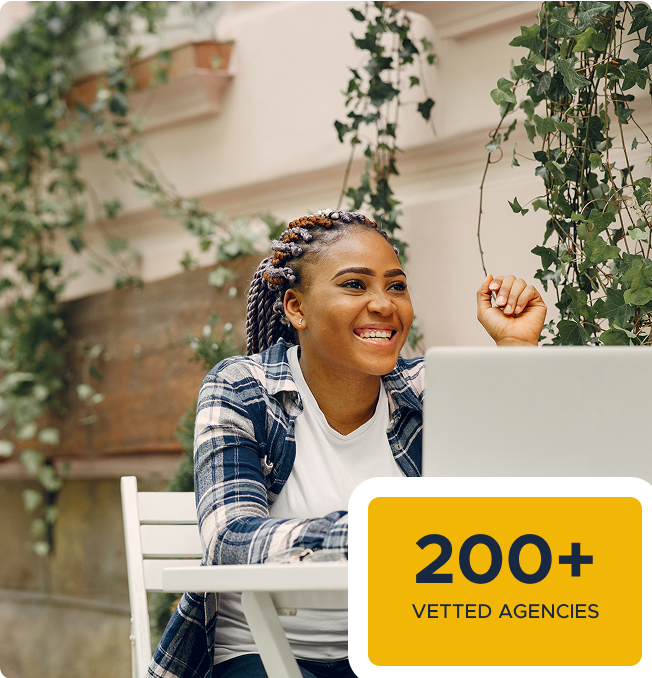
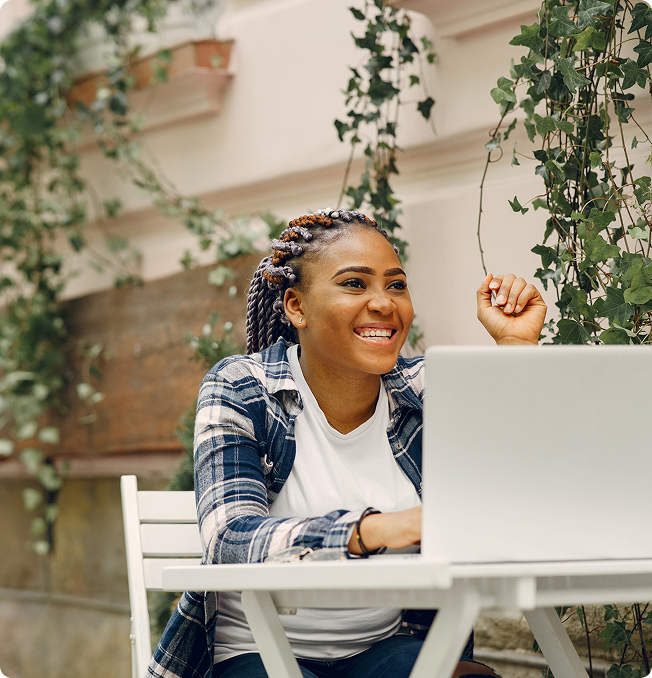
Partners page updates

diff --git a/src/pages/partners.js b/src/pages/partners.js
@@ -10,6 +10,28 @@ import AgencyLogosGrid from "@/components/AgencyLogosGrid";
 import ScrollToTop from "@/components/ScrollToTop";
 import AgencyEnquiryModal from "@/components/AgencyEnquiryModal";
 
+const CountUp = ({ end = 200, duration = 1500 }) => {
+  const [count, setCount] = useState(0);
+  const startTimestamp = useRef(null);
+
+  useEffect(() => {
+    let animationFrame;
+    const step = (timestamp) => {
+      if (!startTimestamp.current) startTimestamp.current = timestamp;
+      const progress = Math.min((timestamp - startTimestamp.current) / duration, 1);
+      setCount(Math.floor(progress * end));
+      if (progress < 1) {
+        animationFrame = requestAnimationFrame(step);
+      } else {
+        setCount(end);
+      }
+    };
+    animationFrame = requestAnimationFrame(step);
+    return () => cancelAnimationFrame(animationFrame);
+  }, [end, duration]);
+
+  return <span>{count}+</span>;
+};
 
 const FreelancersPage = () => {
   const [isModalOpen, setIsModalOpen] = useState(false);
@@ -65,11 +87,12 @@ const FreelancersPage = () => {
 
   return (
     <>
-      <SEO
+    <SEO
         title="Partner with PAAN | Unlock Growth Across Africa's Creative & Tech Markets"
         description="Join PAAN's Partnership Program to connect with 200+ vetted agencies across Africa. Accelerate your market entry, build trust, and scale with local expertise."
         keywords="PAAN partnerships, Africa agency network, tech partnerships Africa, creative agency Africa, expand in Africa, African market entry, local tech partners Africa, scale in African markets"
       />
+    <div className="relative">      
       <main className="px-3 pt-6 sm:px-0 sm:pt-0 relative">
         <Header />
         <Hero openModal={openModal} />
@@ -77,16 +100,24 @@ const FreelancersPage = () => {
         <div className="mx-auto max-w-6xl mt-20 mb-20 relative">
           <div className="absolute top-80 right-0 w-16 h-16 bg-paan-yellow rounded-full z-0"></div>
           <div className="absolute bottom-40 right-80 w-11 h-11 bg-paan-blue rounded-full z-0"></div>
-          <div className="absolute -bottom-24 -right-40 w-14 h-14 bg-paan-red rounded-full z-10"></div>
+          <div className="absolute -bottom-24 sm:-right-40 -right-0  w-14 h-14 bg-paan-red rounded-full z-10"></div>
           <section className="relative">            
             <div className="mb-10">
               <div className="mt-10 grid grid-cols-1 md:grid-cols-2 gap-8 items-center">
-                <div className="mx-auto md:mx-0 flex justify-center">
-                  <img 
-                    src="/assets/images/black-girl.png" 
-                    alt="Professional woman" 
-                    className="rounded-lg shadow-md w-full max-w-md h-auto object-cover" 
-                  />
+              <div className="mx-auto md:mx-0 flex justify-center">
+              <div className="mx-auto md:mx-0 flex justify-center">
+                    <div className="relative">
+                      <img 
+                        src="/assets/images/black-girl.png" 
+                        alt="Professional woman" 
+                        className="rounded-lg shadow-md w-full max-w-md h-auto object-cover" 
+                      />
+                      <div className="absolute bottom-0 right-0 bg-[#F2B706] border-8 border-white rounded-lg shadow-lg p-3 min-w-[120px] h-auto">
+                        <h4 className="font-bold text-[#172840] text-lg leading-none"><CountUp end={200} duration={1500} /></h4>
+                        <p className="text-[10px] font-medium text-[#172840] mt-1 leading-tight">VETTED AGENCIES</p>
+                      </div>
+                    </div>
+                  </div>
                 </div>
                 <div className="flex flex-col space-y-6 max-w-lg">
                   <h3 className="text-xl font-semibold">For Technology Companies, Platforms, and Innovators</h3>
@@ -162,10 +193,11 @@ const FreelancersPage = () => {
         </section>
         </div>
         <AgencyLogosGrid/>
-        <Footer />
-        <ScrollToTop />
-        <AgencyEnquiryModal isOpen={isModalOpen} onClose={closeModal} />
       </main>
+      <Footer />
+      <ScrollToTop />
+      <AgencyEnquiryModal isOpen={isModalOpen} onClose={closeModal} />
+      </div>
     </>
   );
 };

diff --git a/src/components/PartnersBenefits.js b/src/components/PartnersBenefits.js
@@ -1,7 +1,7 @@
 import { useState } from 'react';
 
 export default function PartnerBenefits() {
-  const [activeBenefit, setActiveBenefit] = useState(0);
+  const [activeBenefit, setActiveBenefit] = useState(null);
   
   const benefits = [
     {
@@ -39,47 +39,34 @@ export default function PartnerBenefits() {
   ];
 
   return (
-    <div className="w-full p-6 rounded-lg shadow-sm">      
-      <div className="grid grid-cols-1 md:grid-cols-2 md:gap-6">
-        {/* Benefits Column */}
-        <div className="flex flex-col space-y-4 md:pr-0">
-          {benefits.map((benefit, index) => (
-            <div 
-              key={index}
-              className={`p-4 cursor-pointer transition-all duration-300 ${
-                index === activeBenefit 
-                  ? 'bg-[#F25849] text-white border-none rounded-r-none' 
-                  : 'bg-transparent hover:bg-[#F25849] border border-gray-200 rounded-lg'
-              }`}
-              onClick={() => setActiveBenefit(index)}
+    <div className="w-full p-6 rounded-lg shadow-sm">
+      <div className="flex flex-col space-y-2">
+        {benefits.map((benefit, index) => (
+          <div key={index} className="">
+            <div
+              className={`flex flex-col md:flex-row items-stretch cursor-pointer transition-all duration-300 border-b border-white`}
+              onClick={() => setActiveBenefit(activeBenefit === index ? null : index)}
             >
-              <h3 className={`text-md font-semibold ${index === activeBenefit ? 'text-white' : 'text-white'}`}>
+              <div className={`flex-1 p-4 font-semibold flex items-center text-white`}>
                 {benefit.title}
-              </h3>
+              </div>
+              {activeBenefit === index && (
+                <div className="flex-1 p-4 text-white flex flex-col justify-center">
+                  <ul className="space-y-3">
+                    {benefit.description.map((item, i) => (
+                      <li key={i} className="flex items-start">
+                        <span className="mr-2 mt-0.5">
+                          <svg xmlns="http://www.w3.org/2000/svg" width="20" height="20" viewBox="0 0 24 24"><path fill="currentColor" fillRule="evenodd" d="M12 21a9 9 0 1 0 0-18a9 9 0 0 0 0 18m-.232-5.36l5-6l-1.536-1.28l-4.3 5.159l-2.225-2.226l-1.414 1.414l3 3l.774.774z" clipRule="evenodd"/></svg>
+                        </span>
+                        <span>{item}</span>
+                      </li>
+                    ))}
+                  </ul>
+                </div>
+              )}
             </div>
-          ))}
-        </div>
-        
-        {/* Description Column */}
-        <div 
-          className={`p-6 rounded-md rounded-l-none ${
-            activeBenefit !== null ? 'bg-[#F25849] text-white' : 'bg-transparent'
-          }`}
-        >
-          <h3 className="text-xl font-semibold mb-4">
-            {benefits[activeBenefit].title}
-          </h3>
-          <ul className="space-y-3">
-            {benefits[activeBenefit].description.map((item, index) => (
-              <li key={index} className="flex items-start">
-                <span className="mr-2 mt-0.5">
-                <svg xmlns="http://www.w3.org/2000/svg" width="24" height="24" viewBox="0 0 24 24"><path fill="currentColor" fill-rule="evenodd" d="M12 21a9 9 0 1 0 0-18a9 9 0 0 0 0 18m-.232-5.36l5-6l-1.536-1.28l-4.3 5.159l-2.225-2.226l-1.414 1.414l3 3l.774.774z" clip-rule="evenodd"/></svg>
-                </span>
-                <span>{item}</span>
-              </li>
-            ))}
-          </ul>
-        </div>
+          </div>
+        ))}
       </div>
     </div>
   );

diff --git a/src/layouts/partners-header.js b/src/layouts/partners-header.js
@@ -25,16 +25,16 @@ const Header = ({ navLinkColor }) => {
 
   return (
     <nav
-      className={`w-full z-50 transition-all duration-300 overflow-hidden ${
+      className={`w-full pb-4 sm:pb-0 z-50 transition-all duration-300 overflow-hidden top-0 left-0 fixed$${
         isFixed
-          ? "fixed top-0 left-0 shadow-lg backdrop-blur-md bg-white/95"
-          : "absolute bg-white"
+          ? " top-0 left-0 shadow-lg backdrop-blur-md bg-white/95"
+          : " top-0 left-0 bg-white"
       }`}
     >
       <div className="w-full px-4 lg-custom:px-8 relative">
-        <div className="flex items-center justify-between py-2 relative">
+        <div className="flex items-center justify-between py-2 relative lg-custom:py-2 py-0">
           {/* Header Pattern - Left Side with perfect alignment */}
-          <div className="absolute left-0 lg-custom:left-0 top-0 bottom-0 flex items-center pr-4 z-0">
+          <div className="hidden lg-custom:flex absolute left-0 lg-custom:left-0 top-0 bottom-0 items-center pr-4 z-0">
             <Image
               src="/assets/images/header-pattern.png"
               alt="Header Pattern"
@@ -45,14 +45,15 @@ const Header = ({ navLinkColor }) => {
           </div>
 
           {/* Logo - Left Side (with margin to account for pattern) */}
-          <div className="flex-shrink-0 ml-20 relative z-10">
+          <div className="flex-shrink-0 ml-0 lg-custom:ml-20 relative z-10">
             <Link href="/" passHref>
               <Image
                 src="/assets/images/partners-page-logo.png"
                 alt="Logo"
-                width={200}
-                height={70}
-                className="sm:w-[160px] sm:h-[56px] lg-custom:w-[200px] lg-custom:h-[70px]"
+                width={160}
+                height={56}
+                className="w-auto h-10 lg-custom:w-[200px] lg-custom:h-[70px] object-contain"
+                priority
               />
             </Link>
           </div>
@@ -132,13 +133,14 @@ const Header = ({ navLinkColor }) => {
           }`}
         >
           {/* Mobile Menu Header */}
-          <div className="flex items-center justify-between p-4 border-b border-gray-200 bg-white">
+          <div className="flex items-center justify-between p-4 bg-white">
             <div className="flex items-center">
               <Image
                 src="/assets/images/partners-page-logo.png"
                 alt="Logo"
                 width={110}
                 height={39}
+                className="w-auto h-8 object-contain"
               />
             </div>
             <button
@@ -182,7 +184,7 @@ const Header = ({ navLinkColor }) => {
             </div>
 
             {/* Mobile CTA Button */}
-            <div className="p-4 border-t border-gray-200 bg-white">
+            <div className="p-4 bg-white">
               <a
                 href="https://membership.paan.africa/"
                 className="w-full bg-paan-red text-white px-6 py-4 rounded-xl text-base font-bold hover:bg-paan-red transition duration-300 cursor-pointer flex items-center justify-center shadow-lg"
